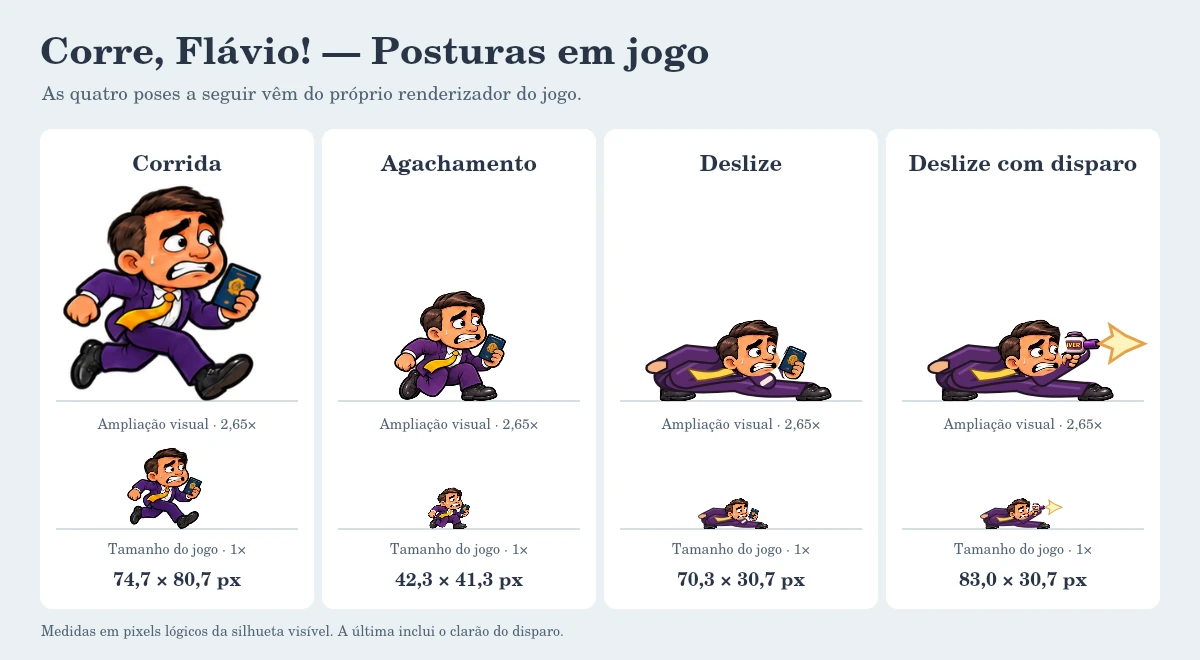
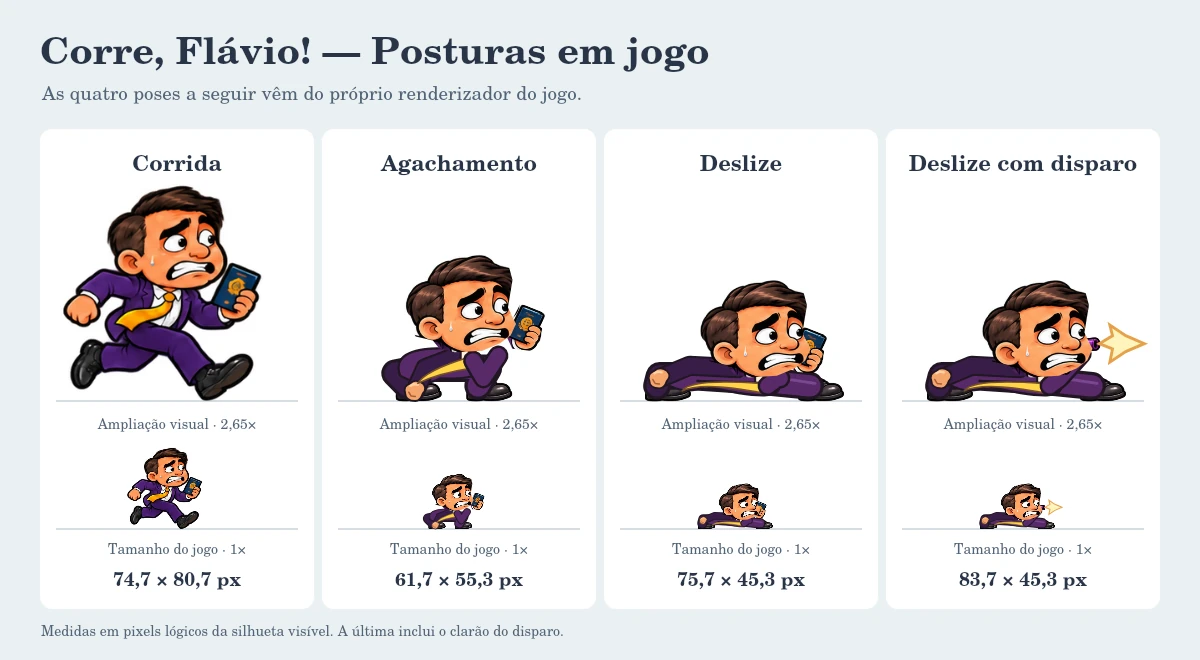
Manter as proporções de Flávio ao agachar e deslizar
Abaixar e estender a perna usam posições intermediárias dos membros, com pés apoiados e o mesmo tamanho de cabeça nas poses baixas. A redução por dano e os controles são preservados. A esquiva sob disparos altos continua funcionando em voo.

diff --git a/tanahoraflavio/index.html b/tanahoraflavio/index.html
@@ -28,7 +28,7 @@
   <link rel="stylesheet" href="control-settings.css?v=1c20042497ae">
   <link rel="stylesheet" href="game.css?v=99e53c95d975">
   <script defer src="page-layout.js?v=69f225a085c7"></script>
-  <script defer src="runner-bootstrap.js?v=38bc6daea705" data-runner="./runner.mjs?v=24abe2419729"></script>
+  <script defer src="runner-bootstrap.js?v=38bc6daea705" data-runner="./runner.mjs?v=668f17879185"></script>
 </head>
 <body>
   <a class="skip-link" href="#conteudo">Ir para o conteúdo</a>

diff --git a/tanahoraflavio/docs/aceite-super-prompt-2026-11-17.md b/tanahoraflavio/docs/aceite-super-prompt-2026-11-17.md
@@ -4,7 +4,7 @@ Esta revisão reúne a jogabilidade do #59, o acabamento do #60 e a checagem fin
 
 **Correção pela captura do usuário.** O teto retangular cinza com faixa listrada e a seta junto dele foram retirados da partida nos dois modos. A geração não cria o obstáculo nem sua colisão. O Canvas também não pinta mais aquele teto. Agachamento e deslize continuam disponíveis no chão e sobre os apoios.
 
-**Deslize com ↓ + →.** Antes, a velocidade mudava, mas o Canvas inclinava a mesma pose de agachamento. Agora o corpo tem animação própria com a perna da frente estendida e as solas na altura do apoio, inclusive ao disparar. Soltar frente volta ao agachamento; soltar baixo volta à corrida. O desenho não altera a física nem os atalhos configurados. [Comparação desenhada pelo Canvas do jogo](flavio-posturas-2026-11-17.webp).
+**Agachamento e deslize em proporções naturais.** Antes, a cabeça do agachamento media 24,7 px de largura na faixa de amostragem, contra 41 px em corrida. As novas poses baixam o corpo pela dobra dos joelhos e pela inclinação do tronco, com a cabeça medindo 37,7 px nas duas poses baixas e sola na altura do apoio. O deslize com ↓ + → estende a perna à frente por quadros intermediários, também ao disparar. Soltar frente recolhe a perna para o agachamento e soltar baixo volta à passada. A redução do personagem ferido e os atalhos permanecem. O projétil alto dos aviões ainda distingue postura ereta de agachamento ou deslize. [Comparação desenhada pelo Canvas do jogo](flavio-posturas-2026-11-17.webp).
 
 **Travessia entre destinos.** Os dois primeiros cenários continuam terrestres. O terceiro ensina a barra em solo firme (São Paulo na História, Argentina no Infinito). A partir da sua saída, o jogo embarca na troca de estado, distrito ou país, não no meio de uma fase. O retorno da Casa Branca a Brasília também é um voo. A História não reinicia a rota no final e o Infinito continua as saídas geográficas nas voltas seguintes. Cada viagem tem rampa, plataformas sobre vazio e avisos de aproximação visual e sonoro para aviões armados. O avião de passagem não ataca. Passaportes comuns ficam em dois apoios seguros, sem novas curas ou escudos. Ao desembarcar, o jogador continua com a forma que tinha, sem precisar disparar ou usar salto duplo.
 
